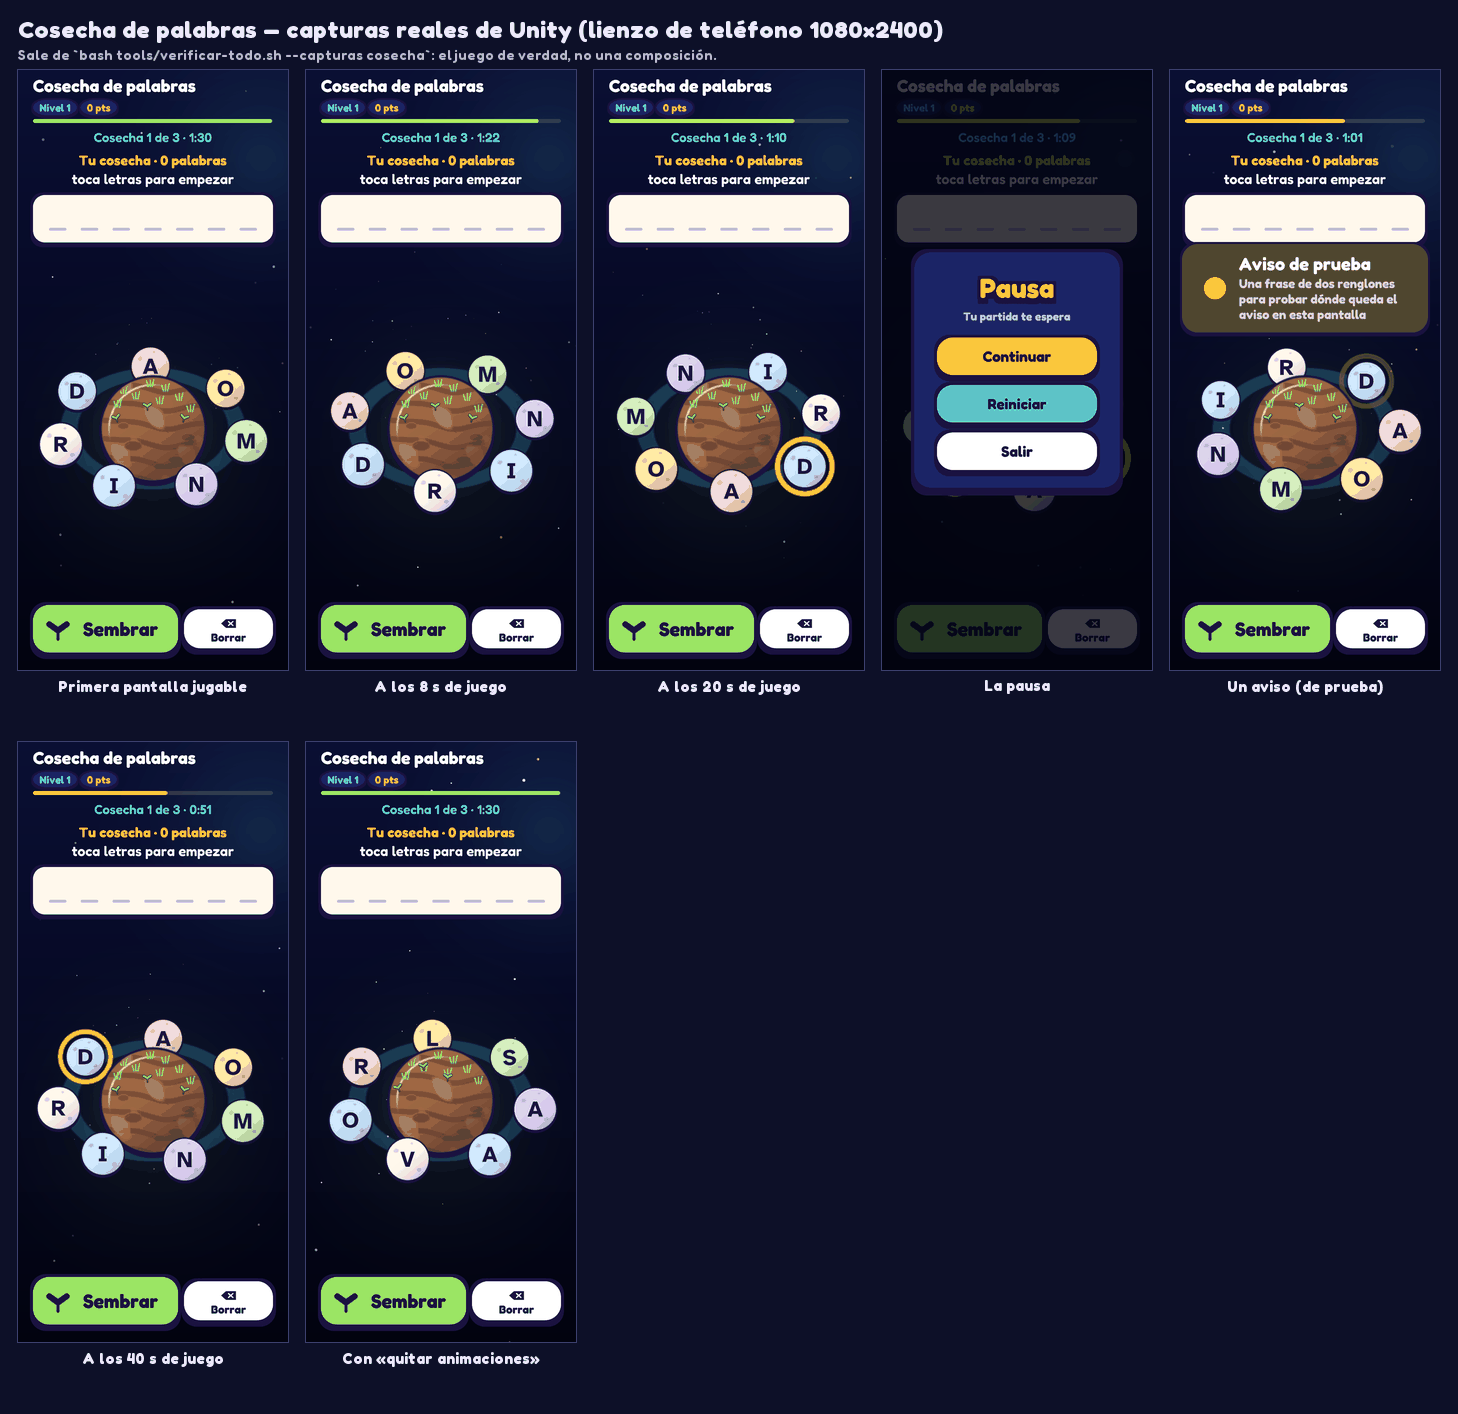
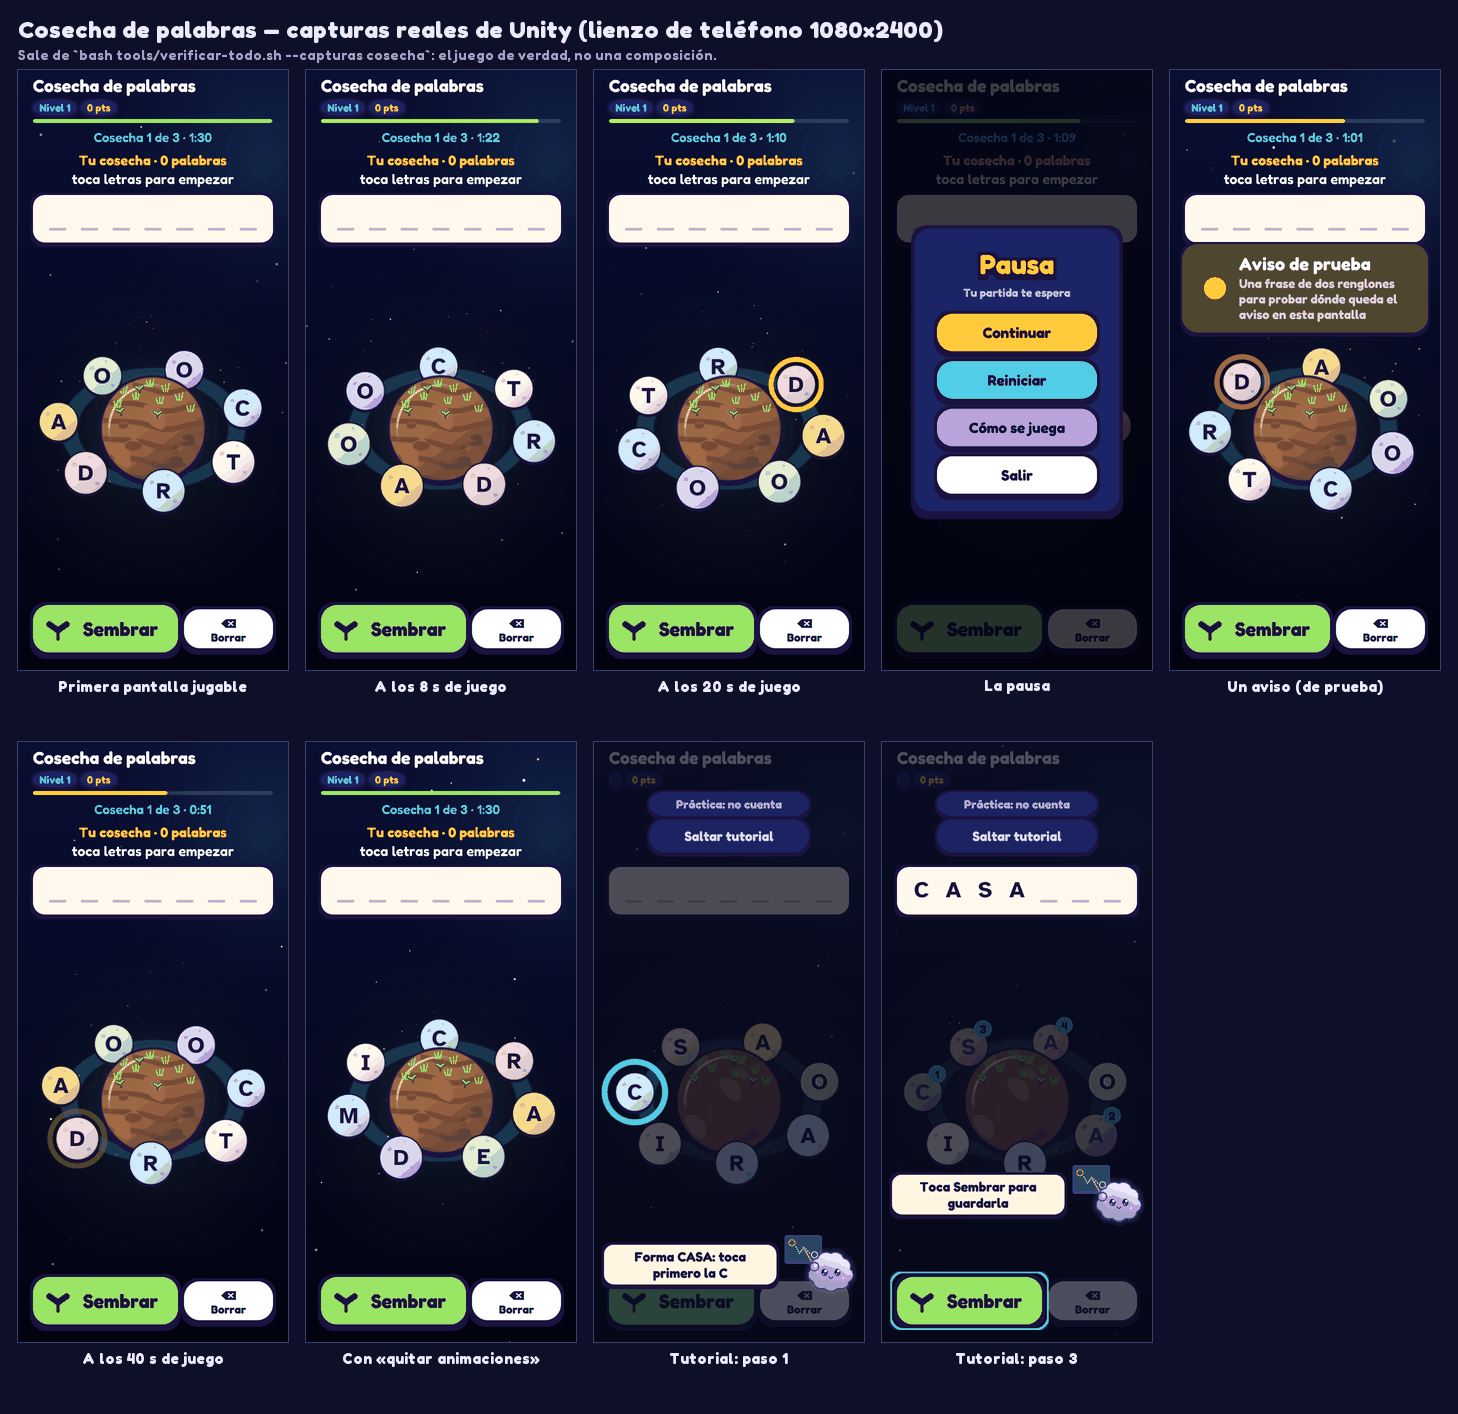
Tutoriales nuevos (Tarea 56): ajustes tras las capturas y láminas de Cosecha, ¿Verdad o disparate? y La estrella intrusa
- ¿Verdad o disparate?: los avisos del tutorial protegen los botones (Nubi tapaba VERDAD en el paso 3).
- La estrella intrusa: el hueco del paso de mirar es la caja de la figura más las placas de las cuatro palabras (cortaba «manzana» y «pera»).
- Láminas reales con los pasos 1 y 3 del tutorial de los tres juegos y lo que se vio en hallazgos.md.

diff --git a/unity/NeuroVidaCore/Assets/Scripts/Games/Intrusa/IntrusaGameController.cs b/unity/NeuroVidaCore/Assets/Scripts/Games/Intrusa/IntrusaGameController.cs
@@ -1186,6 +1186,19 @@ namespace NeuroVida.Games.Intrusa
             return _holeRect;
         }
 
+        /// <summary>La caja de la figura más las placas de las cuatro palabras (algunas sobresalen: la de arriba va sobre su estrella y la de abajo, debajo), para iluminarlo todo junto.</summary>
+        private LRect FigureHole()
+        {
+            float x0 = IntrusaLayout.BoxX, y0 = IntrusaLayout.BoxY, x1 = x0 + IntrusaLayout.BoxW, y1 = y0 + IntrusaLayout.BoxH;
+            for (int i = 0; i < 4; i++)
+            {
+                var q = _slots[i].Plaque;
+                x0 = Mathf.Min(x0, q.X); y0 = Mathf.Min(y0, q.Y); x1 = Mathf.Max(x1, q.X + q.W); y1 = Mathf.Max(y1, q.Y + q.H);
+            }
+            const float pad = 8f;
+            return new LRect(x0 - pad, y0 - pad, x1 - x0 + 2f * pad, y1 - y0 + 2f * pad);
+        }
+
         /// <summary>La caída de la intrusa, la chispa que dibuja la figura y el grabado con su nombre; después avisa. No anota nada: ni racha, ni puntos, ni lámina del atlas.</summary>
         private IEnumerator PracticeReveal(IntrusaSpec spec, System.Action done)
         {
@@ -1250,7 +1263,7 @@ namespace NeuroVida.Games.Intrusa
                 float revealedAt = -1f;
                 fall = StartCoroutine(FallStar(_slots[4]));
                 reveal = StartCoroutine(PracticeReveal(spec, () => revealed = true));
-                yield return StartCoroutine(coach.Watch(() => coach.RectOf(HoleOver(new LRect(IntrusaLayout.BoxX, IntrusaLayout.BoxY, IntrusaLayout.BoxW, IntrusaLayout.BoxH))), CoachTexts.Intrusa.Spark,
+                yield return StartCoroutine(coach.Watch(() => coach.RectOf(HoleOver(FigureHole())), CoachTexts.Intrusa.Spark,
                     () =>
                     {
                         if (!revealed) return false;

diff --git a/unity/NeuroVidaCore/Assets/Scripts/Games/Disparate/DisparateGameController.cs b/unity/NeuroVidaCore/Assets/Scripts/Games/Disparate/DisparateGameController.cs
@@ -997,7 +997,9 @@ namespace NeuroVida.Games.Disparate
             _allow = Allow.None;
             var specs = DisparateContract.PracticeSpecs(Precision);
             var plate = new[] { coach.Zone(() => coach.RectOf(_plate)) };
-            var plateAndSignal = Precision ? plate : new[] { plate[0], coach.Zone(_sigBar) };
+            var buttons = coach.ZoneOf(_btnTrue, _btnFalse);                    // los avisos tampoco tapan los botones
+            var plateAndButtons = new[] { plate[0], buttons };
+            var plateSignalAndButtons = Precision ? plateAndButtons : new[] { plate[0], coach.Zone(_sigBar), buttons };
             bool ok = !t.Skipped;
 
             // 1) una verdad clarísima
@@ -1045,7 +1047,7 @@ namespace NeuroVida.Games.Disparate
             {
                 yield return StartCoroutine(ShowSentence(specs[2]));
                 if (!Precision) StartCoroutine(PracticeSignal(specs[2].SignalSeconds, 3.6f));
-                yield return StartCoroutine(coach.Notice(CoachTexts.Disparate.Rhythm, 3.6f, keep: plateAndSignal));
+                yield return StartCoroutine(coach.Notice(CoachTexts.Disparate.Rhythm, 3.6f, keep: plateSignalAndButtons));
                 ok = !t.Skipped;
             }
 
@@ -1053,7 +1055,7 @@ namespace NeuroVida.Games.Disparate
             if (ok)
             {
                 _allow = Allow.Hold;
-                yield return StartCoroutine(coach.Notice(CoachTexts.Disparate.Unclear, 3.8f, keep: plate));
+                yield return StartCoroutine(coach.Notice(CoachTexts.Disparate.Unclear, 3.8f, keep: plateAndButtons));
                 ok = !t.Skipped;
             }
             _allow = Allow.None;

diff --git a/docs/previews/capturas/hallazgos.md b/docs/previews/capturas/hallazgos.md
@@ -20,6 +20,14 @@ Revisión a primera vista de las 19 láminas de esta carpeta (Tarea 53) y lo que
 | Lluvia de meteoros (`meteoros`) | Nacían sobre el título; estela sobre el marcador; «se fue: fondo» chico. | Nacen debajo del marcador y la estela crece sin pasar de él. «se fue: …» mide 46 unidades = 15 dp (≥ 14): sin cambio. **Queda**: al empezar, el primer meteoro pasa sobre la línea de ayuda «Toca las palabras que existen…» (ya pasaba antes, más tarde). |
 | La estrella intrusa (`intrusa`) | Las palabras parecen de ~29 dp de alto. | **Verificado**: el área TOCABLE de cada palabra es de al menos 64 dp (`IntrusaLayout.TouchArea`, con prueba `TouchArea_NuncaBajaDe64Dp…`), mayor que el rótulo. Sin cambios. |
 
+## Tutoriales nuevos (Tarea 56, 9-oct)
+
+Las láminas de Cosecha, ¿Verdad o disparate? y La estrella intrusa ya traen sus pasos 1 y 3 del tutorial. Lo que se vio al revisarlas:
+
+- **¿Verdad o disparate?, paso 3**: Nubi y su globo caían sobre el botón VERDAD (tapaban su ícono). **Arreglado**: los avisos del tutorial protegen los dos botones (y la placa y, en el Reto, la barra de señal).
+- **La estrella intrusa, paso 3**: el hueco cortaba las placas «manzana» y «pera». **Arreglado**: el hueco es la caja de la figura más las placas de las cuatro palabras.
+- **Cosecha, paso 1**: el globo de Nubi queda pegado al borde de arriba de Sembrar. **Se deja**: no tapa ningún texto ni el hueco (la C) y en pantalla 16:9 no hay otro lugar sin cubrir letras.
+
 ## Letra de 14 dp
 
 Se midió con una regla exacta en el smoke (el tamaño efectivo de cada texto visible entre 3 unidades por dp). Estaban bajo 14 dp: «Nivel N», el avance («1 de 40»…) y «racha» del marcador de TODOS los juegos (13,3 y 9,3 dp); «Límite del freno» (12) y su valor (13,3) en Freno; «Tu estación» (11,3) y «PUERTO» (10,7) en Acoplamiento; el cartel de la misión de Piloto (12) y su franja «Desliza aquí…» (13,3); «Rescatados» (13,3) y la ayuda (12,3) de Radar; «Toca la señal para ir al cristal» (13,3) y «faro» (12) de Rumbo; la ayuda de Aterrizaje (13,3), la cruz de Satélites (12,7), el «Extra» de los resultados de 9 juegos (13,3) y los mínimos de los ajustes automáticos de los avisos de Acoplamiento, Cosecha, Freno, Radar, Rumbo, Satélites y Stroop (hasta 9,3 dp). Constelaciones, Rastro de luz y Carga exacta SÍ estaban en regla (la medición por cuadro de la revisión visual era imprecisa).
